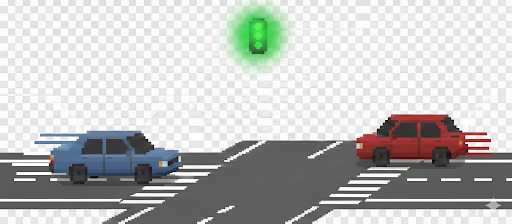
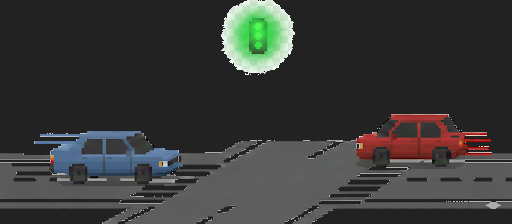
Dev fixes: fallback pair, localhost bypass, time formatting
- api/pair.js: fall back to random pair when no dated puzzle exists
- index.html: skip validate API on localhost for fast local dev
- index.html: format elapsed time as human-readable string
- index.html: guess distribution starts at 2 (not 1)
- images: replace oversized light images with smaller versions

diff --git a/index.html b/index.html
@@ -771,6 +771,17 @@
         return d.toLocaleDateString('en-US', { month: 'short', day: 'numeric', year: 'numeric' });
     }
 
+    function formatTime(totalSeconds) {
+        const hours = Math.floor(totalSeconds / 3600);
+        const minutes = Math.floor((totalSeconds % 3600) / 60);
+        const seconds = totalSeconds % 60;
+        const parts = [];
+        if (hours > 0) parts.push(hours + (hours === 1 ? " hour" : " hours"));
+        if (minutes > 0) parts.push(minutes + (minutes === 1 ? " minute" : " minutes"));
+        parts.push(seconds + (seconds === 1 ? " second" : " seconds"));
+        return parts.join(" ");
+    }
+
     function updateModeLabel() {
         const label = document.getElementById("mode-label");
         if (!label) return;
@@ -794,7 +805,7 @@
         const distContainer = document.getElementById("stat-dist");
         distContainer.innerHTML = "";
         const maxVal = Math.max(...Object.values(stats.guessDistribution), 1);
-        for (let i = 1; i <= 5; i++) {
+        for (let i = 2; i <= 5; i++) {
             const count = stats.guessDistribution[i] || 0;
             const pct = Math.round((count / maxVal) * 100);
             const isCurrentWin = (winningGuesses === i);
@@ -810,7 +821,7 @@
         const bestTimeEl = document.getElementById("stat-best-time");
         if (bestTimeEl) {
             if (stats.bestTime !== null) {
-                bestTimeEl.textContent = `⏱ Best Time: ${stats.bestTime}s`;
+                bestTimeEl.textContent = `⏱ Best Time: ${formatTime(stats.bestTime)}`;
                 bestTimeEl.style.display = "block";
             } else {
                 bestTimeEl.style.display = "none";
@@ -1360,40 +1371,45 @@
         updateTrafficLights();
     }
 
+    function acceptGuess(guess) {
+        guessHistory.push(guess);
+        guesses++;
+        const feedback = provideFeedback(guess);
+        displayGuess(guess, feedback);
+        updateMainGrid(guess, feedback);
+        updateLetterBank(guess, feedback);
+        checkGameEnd();
+        currentGuess = "";
+        updateGrids();
+        saveState();
+        if (!gameOver) {
+            document.querySelectorAll(".letter-btn").forEach(btn => btn.disabled = false);
+        }
+    }
+
+    function rejectGuess() {
+        showInvalidWarning();
+        currentGuess = "";
+        updateGrids();
+        document.querySelectorAll(".letter-btn").forEach(btn => btn.disabled = false);
+    }
+
     function processGuess(guess) {
         guess = guess.toUpperCase();
-        // Disable input while validating to prevent double-submission
         document.querySelectorAll(".letter-btn").forEach(btn => btn.disabled = true);
+
+        if (window.location.hostname === 'localhost' || window.location.hostname === '127.0.0.1') {
+            acceptGuess(guess);
+            return;
+        }
+
         fetch(`/api/validate?word=${encodeURIComponent(guess)}`)
             .then(res => res.json())
             .then(data => {
-                if (!data.valid) {
-                    showInvalidWarning();
-                    currentGuess = "";
-                    updateGrids();
-                    document.querySelectorAll(".letter-btn").forEach(btn => btn.disabled = false);
-                    return;
-                }
-                guessHistory.push(guess);
-                guesses++;
-                const feedback = provideFeedback(guess);
-                displayGuess(guess, feedback);
-                updateMainGrid(guess, feedback);
-                updateLetterBank(guess, feedback);
-                checkGameEnd();
-                currentGuess = "";
-                updateGrids();
-                saveState();
-                if (!gameOver) {
-                    document.querySelectorAll(".letter-btn").forEach(btn => btn.disabled = false);
-                }
+                if (!data.valid) { rejectGuess(); return; }
+                acceptGuess(guess);
             })
-            .catch(() => {
-                showInvalidWarning();
-                currentGuess = "";
-                updateGrids();
-                document.querySelectorAll(".letter-btn").forEach(btn => btn.disabled = false);
-            });
+            .catch(() => rejectGuess());
     }
 
     function showInvalidWarning() {
@@ -1569,7 +1585,7 @@
         winGuesses.textContent = guesses;
         const endTime = Date.now();
         const timeElapsed = Math.floor((endTime - startTime) / 1000);
-        winTime.textContent = `${timeElapsed}s`;
+        winTime.textContent = formatTime(timeElapsed);
         setWinSprite();
         winPopup.style.display = "block";
         gameOver = true;

diff --git a/api/pair.js b/api/pair.js
@@ -65,7 +65,27 @@ module.exports = function handler(req, res) {
     const entry = pairs.find(p => p.date === date);
 
     if (!entry) {
-        return res.status(404).json({ error: 'No puzzle for this date', date });
+        // No dated puzzle — fall back to a random pair
+        let attempts = 0;
+        while (attempts < 1000) {
+            attempts++;
+            const fallback = pairs[Math.floor(Math.random() * pairs.length)];
+            const fh = fallback.words[0].toUpperCase();
+            const fv = fallback.words[1].toUpperCase();
+            if (fh.length !== 5 || fv.length !== 5) continue;
+            const fi = findIntersection(fh, fv);
+            if (fi) {
+                return res.status(200).json({
+                    targetHorizontal: fh,
+                    targetVertical: fv,
+                    intersectH: fi.intersectH,
+                    intersectV: fi.intersectV,
+                    date: null,
+                    mode: 'random'
+                });
+            }
+        }
+        return res.status(500).json({ error: 'Could not find a valid pair' });
     }
 
     const h = entry.words[0].toUpperCase();
